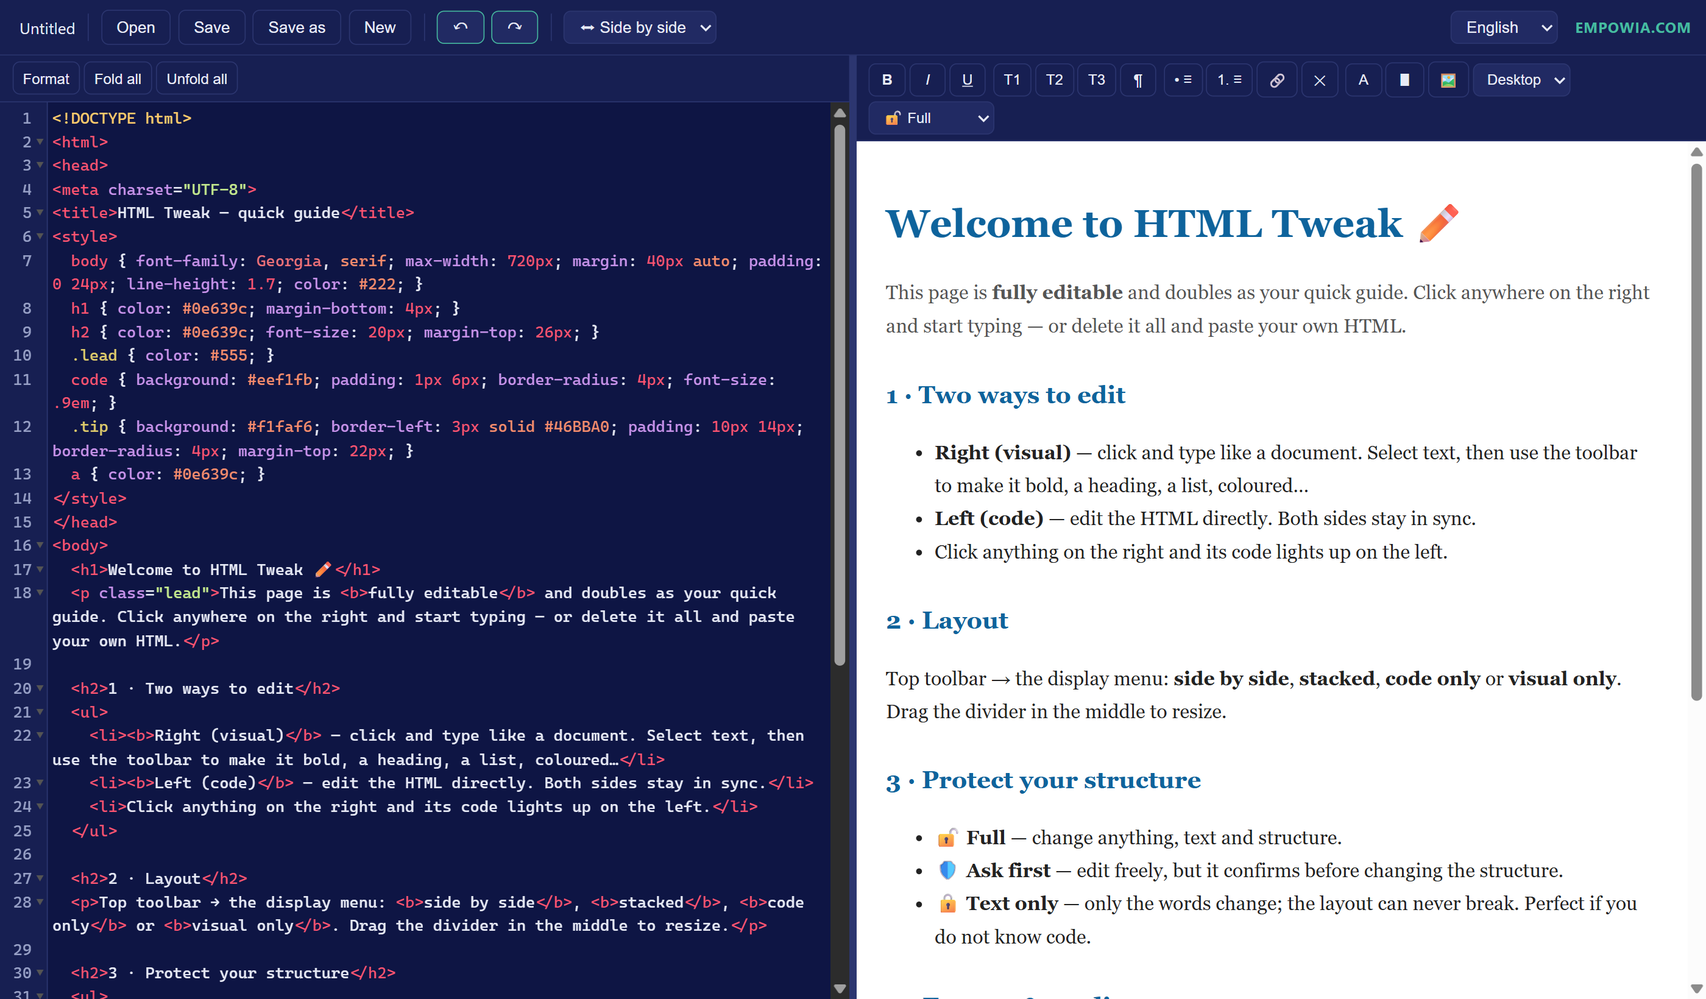
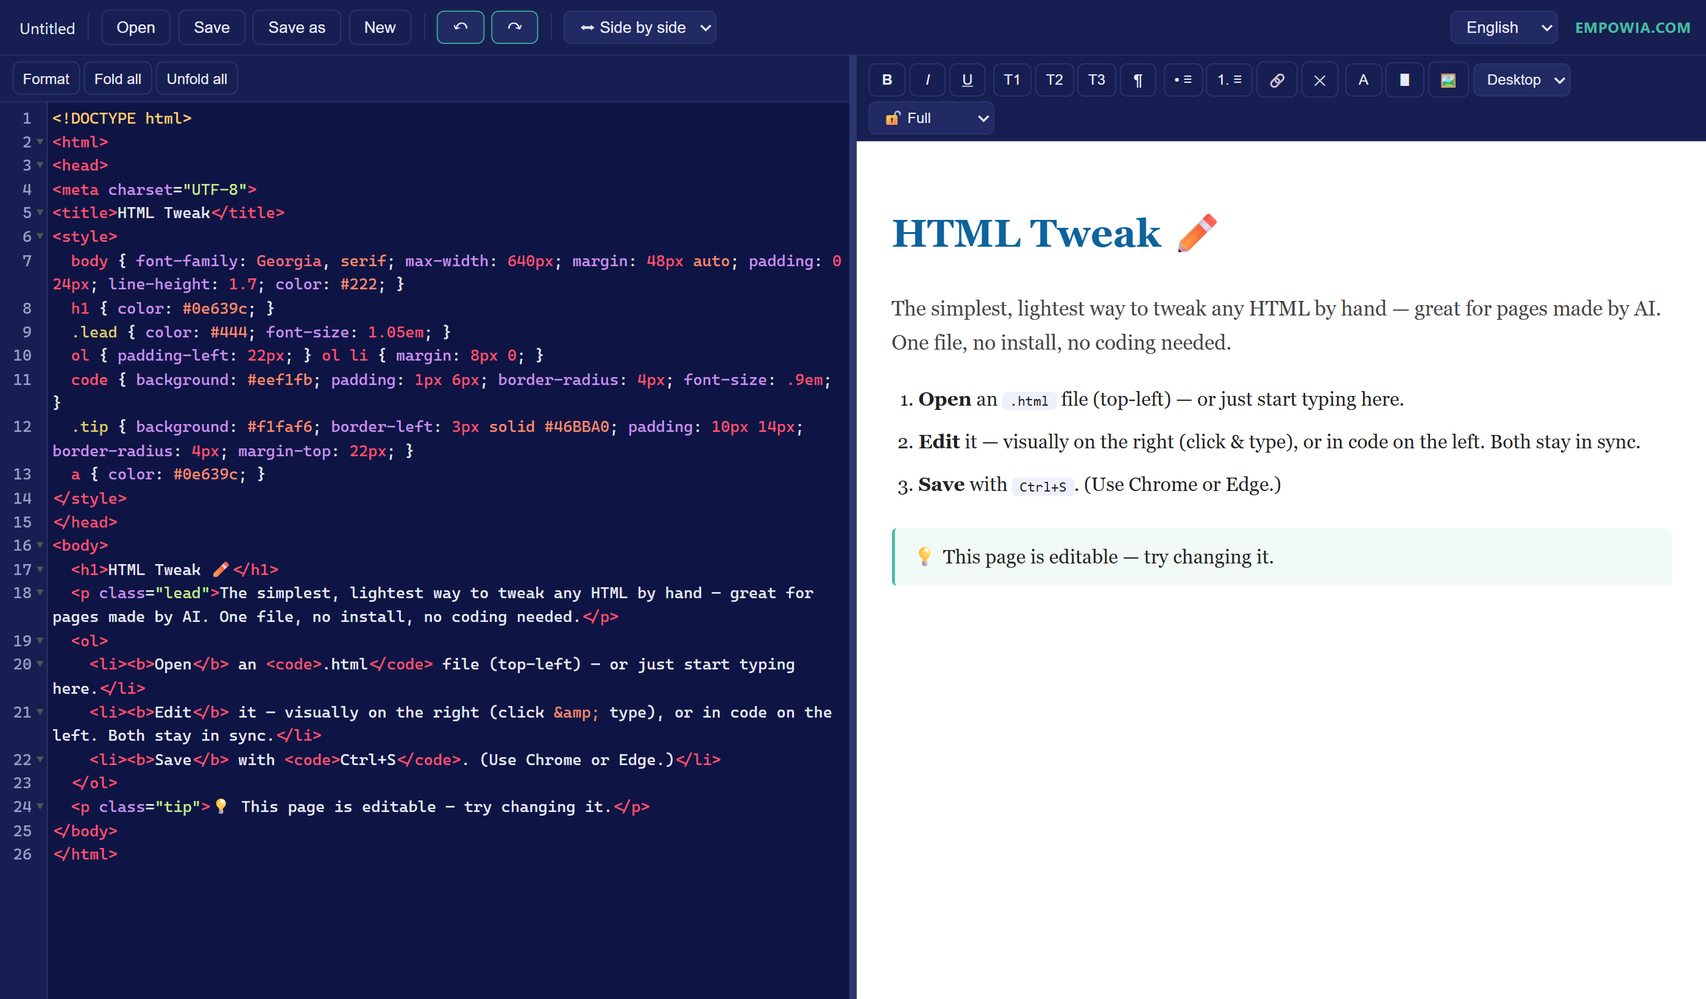
Simplify the in-app guide to a one-line pitch + Open/Edit/Save

diff --git a/index.html b/index.html
@@ -250,7 +250,7 @@
       draft:'Previous draft restored', noFSA:'Use Chrome / Edge for direct file access.', locked:'🔒 Text only — structure is protected', structUndo:'Structure change cancelled', foldNo:'Folding unavailable',
       confirmNew:'Unsaved changes. Create a new page?', confirmStruct:'You are changing the page STRUCTURE\n(adding, removing or moving an element).\n\nContinue?', promptLink:'Link address (URL):',
       apply:'Apply', cancel:'Cancel', imgTitle:'Edit image', imgUrl:'Image URL', imgAlt:'Alt text', imgWidth:'Width (e.g. 300 or 50%)',
-      sample:'<!DOCTYPE html>\n<html>\n<head>\n<meta charset="UTF-8">\n<title>HTML Tweak — quick guide</title>\n<style>\n  body { font-family: Georgia, serif; max-width: 720px; margin: 40px auto; padding: 0 24px; line-height: 1.7; color: #222; }\n  h1 { color: #0e639c; margin-bottom: 4px; }\n  h2 { color: #0e639c; font-size: 20px; margin-top: 26px; }\n  .lead { color: #555; }\n  code { background: #eef1fb; padding: 1px 6px; border-radius: 4px; font-size: .9em; }\n  .tip { background: #f1faf6; border-left: 3px solid #46BBA0; padding: 10px 14px; border-radius: 4px; margin-top: 22px; }\n  a { color: #0e639c; }\n</style>\n</head>\n<body>\n  <h1>Welcome to HTML Tweak ✏</h1>\n  <p class="lead">This page is <b>fully editable</b> and doubles as your quick guide. Click anywhere on the right and start typing — or delete it all and paste your own HTML.</p>\n\n  <h2>1 · Two ways to edit</h2>\n  <ul>\n    <li><b>Right (visual)</b> — click and type like a document. Select text, then use the toolbar to make it bold, a heading, a list, coloured…</li>\n    <li><b>Left (code)</b> — edit the HTML directly. Both sides stay in sync.</li>\n    <li>Click anything on the right and its code lights up on the left.</li>\n  </ul>\n\n  <h2>2 · Layout</h2>\n  <p>Top toolbar → the display menu: <b>side by side</b>, <b>stacked</b>, <b>code only</b> or <b>visual only</b>. Drag the divider in the middle to resize.</p>\n\n  <h2>3 · Protect your structure</h2>\n  <ul>\n    <li>🔓 <b>Full</b> — change anything, text and structure.</li>\n    <li>🛡 <b>Ask first</b> — edit freely, but it confirms before changing the structure.</li>\n    <li>🔒 <b>Text only</b> — only the words change; the layout can never break. Perfect if you do not know code.</li>\n  </ul>\n\n  <h2>4 · Format &amp; media</h2>\n  <p>Select text, then use <b>B</b> / <i>I</i> / <u>U</u>, headings, lists, <a href="https://empowia.com">links</a>, and the <b>A</b> / ▮ colour buttons. Click any image to change its URL, alt text or size.</p>\n\n  <h2>5 · Save</h2>\n  <p><b>Open</b> loads an <code>.html</code> file; <b>Save</b> (<code>Ctrl+S</code>) writes it back. Use <b>Chrome</b> or <b>Edge</b> for direct saving.</p>\n\n  <div class="tip">💡 Change the language at the top-right. Everything you do is auto-saved as a draft. Go ahead — edit this sentence right now!</div>\n</body>\n</html>' },
+      sample:'<!DOCTYPE html>\n<html>\n<head>\n<meta charset="UTF-8">\n<title>HTML Tweak</title>\n<style>\n  body { font-family: Georgia, serif; max-width: 640px; margin: 48px auto; padding: 0 24px; line-height: 1.7; color: #222; }\n  h1 { color: #0e639c; }\n  .lead { color: #444; font-size: 1.05em; }\n  ol { padding-left: 22px; } ol li { margin: 8px 0; }\n  code { background: #eef1fb; padding: 1px 6px; border-radius: 4px; font-size: .9em; }\n  .tip { background: #f1faf6; border-left: 3px solid #46BBA0; padding: 10px 14px; border-radius: 4px; margin-top: 22px; }\n  a { color: #0e639c; }\n</style>\n</head>\n<body>\n  <h1>HTML Tweak ✏</h1>\n  <p class="lead">The simplest, lightest way to tweak any HTML by hand — great for pages made by AI. One file, no install, no coding needed.</p>\n  <ol>\n    <li><b>Open</b> an <code>.html</code> file (top-left) — or just start typing here.</li>\n    <li><b>Edit</b> it — visually on the right (click &amp; type), or in code on the left. Both stay in sync.</li>\n    <li><b>Save</b> with <code>Ctrl+S</code>. (Use Chrome or Edge.)</li>\n  </ol>\n  <p class="tip">💡 This page is editable — try changing it.</p>\n</body>\n</html>' },
     zh: { open:'打开', save:'保存', saveAs:'另存为', new:'新建', undo:'撤销', redo:'重做',
       layoutH:'⬌ 左右', layoutV:'⬍ 上下', layoutCode:'▤ 仅代码', layoutVisual:'▥ 仅可视',
       protFree:'🔓 完全', protText:'🔒 仅文字', protWarn:'🛡 先确认',
@@ -263,7 +263,7 @@
       draft:'已恢复上次草稿', noFSA:'请用 Chrome / Edge 以直接读写本地文件。', locked:'🔒 仅改文字 — 结构受保护', structUndo:'已取消结构修改', foldNo:'无法折叠',
       confirmNew:'有未保存的修改,确定新建?', confirmStruct:'你正在修改页面结构\n(增加、删除或移动元素)。\n\n继续吗?', promptLink:'链接地址(URL):',
       apply:'应用', cancel:'取消', imgTitle:'编辑图片', imgUrl:'图片地址 (URL)', imgAlt:'替代文字 (alt)', imgWidth:'宽度 (如 300 或 50%)',
-      sample:'<!DOCTYPE html>\n<html>\n<head>\n<meta charset="UTF-8">\n<title>HTML Tweak — 快速指南</title>\n<style>\n  body { font-family: Georgia, serif; max-width: 720px; margin: 40px auto; padding: 0 24px; line-height: 1.7; color: #222; }\n  h1 { color: #0e639c; margin-bottom: 4px; }\n  h2 { color: #0e639c; font-size: 20px; margin-top: 26px; }\n  .lead { color: #555; }\n  code { background: #eef1fb; padding: 1px 6px; border-radius: 4px; font-size: .9em; }\n  .tip { background: #f1faf6; border-left: 3px solid #46BBA0; padding: 10px 14px; border-radius: 4px; margin-top: 22px; }\n  a { color: #0e639c; }\n</style>\n</head>\n<body>\n  <h1>欢迎使用 HTML Tweak ✏</h1>\n  <p class="lead">这个页面<b>完全可编辑</b>,同时也是你的快速指南。在右边任意位置点一下就能打字——也可以全部删掉,粘上你自己的 HTML。</p>\n\n  <h2>1 · 两种编辑方式</h2>\n  <ul>\n    <li><b>右边(可视)</b> —— 像编辑文档一样点击、打字。选中文字后,用工具栏加粗、设标题、做列表、上色……</li>\n    <li><b>左边(代码)</b> —— 直接改 HTML,两边实时同步。</li>\n    <li>点右边任意元素,左边对应的代码会高亮。</li>\n  </ul>\n\n  <h2>2 · 显示布局</h2>\n  <p>顶部工具栏 → 显示菜单:<b>左右</b>、<b>上下</b>、<b>仅代码</b>、<b>仅可视</b>。拖动中间的分隔条可调大小。</p>\n\n  <h2>3 · 结构保护</h2>\n  <ul>\n    <li>🔓 <b>完全</b> —— 文字和结构随便改。</li>\n    <li>🛡 <b>先确认</b> —— 自由编辑,但改结构前会弹窗确认。</li>\n    <li>🔒 <b>仅文字</b> —— 只能改文字,排版绝不会被弄坏。不懂代码也能放心用。</li>\n  </ul>\n\n  <h2>4 · 格式与图片</h2>\n  <p>选中文字后用 <b>B</b> / <i>I</i> / <u>U</u>、标题、列表、<a href="https://empowia.com">链接</a>,以及 <b>A</b> / ▮ 颜色按钮。点任意图片可修改它的地址、alt 文字或大小。</p>\n\n  <h2>5 · 保存</h2>\n  <p><b>打开</b>载入一个 <code>.html</code> 文件;<b>保存</b>(<code>Ctrl+S</code>)写回。请用 <b>Chrome</b> 或 <b>Edge</b> 以直接保存。</p>\n\n  <div class="tip">💡 右上角可切换语言。你的所有改动会自动存为草稿。来吧——现在就试着改改这句话!</div>\n</body>\n</html>' },
+      sample:'<!DOCTYPE html>\n<html>\n<head>\n<meta charset="UTF-8">\n<title>HTML Tweak</title>\n<style>\n  body { font-family: Georgia, serif; max-width: 640px; margin: 48px auto; padding: 0 24px; line-height: 1.7; color: #222; }\n  h1 { color: #0e639c; }\n  .lead { color: #444; font-size: 1.05em; }\n  ol { padding-left: 22px; } ol li { margin: 8px 0; }\n  code { background: #eef1fb; padding: 1px 6px; border-radius: 4px; font-size: .9em; }\n  .tip { background: #f1faf6; border-left: 3px solid #46BBA0; padding: 10px 14px; border-radius: 4px; margin-top: 22px; }\n  a { color: #0e639c; }\n</style>\n</head>\n<body>\n  <h1>HTML Tweak ✏</h1>\n  <p class="lead">最简单、最轻量地亲手微调任何 HTML——特别适合 AI 生成的网页。单个文件,免安装,不懂代码也能用。</p>\n  <ol>\n    <li><b>打开</b>一个 <code>.html</code> 文件(左上角)——或直接在这里打字。</li>\n    <li><b>编辑</b>——右边可视化(点击、打字),或左边改代码,两边实时同步。</li>\n    <li><b>保存</b>(<code>Ctrl+S</code>)。请用 Chrome 或 Edge。</li>\n  </ol>\n  <p class="tip">💡 这个页面可以直接编辑——试着改改看。</p>\n</body>\n</html>' },
     fr: { open:'Ouvrir', save:'Enregistrer', saveAs:'Enregistrer sous', new:'Nouveau', undo:'Annuler', redo:'Rétablir',
       layoutH:'⬌ Côte à côte', layoutV:'⬍ Empilé', layoutCode:'▤ Code seul', layoutVisual:'▥ Visuel seul',
       protFree:'🔓 Complet', protText:'🔒 Texte seul', protWarn:'🛡 Demander',
@@ -276,7 +276,7 @@
       draft:'Brouillon précédent restauré', noFSA:'Utilisez Chrome / Edge pour l\'accès direct aux fichiers.', locked:'🔒 Texte seul — la structure est protégée', structUndo:'Modification de structure annulée', foldNo:'Pliage indisponible',
       confirmNew:'Modifications non enregistrées. Créer une nouvelle page ?', confirmStruct:'Vous modifiez la STRUCTURE de la page\n(ajout, suppression ou déplacement d\'un élément).\n\nContinuer ?', promptLink:'Adresse du lien (URL) :',
       apply:'Appliquer', cancel:'Annuler', imgTitle:'Modifier l\'image', imgUrl:'URL de l\'image', imgAlt:'Texte alternatif', imgWidth:'Largeur (ex. 300 ou 50%)',
-      sample:'<!DOCTYPE html>\n<html>\n<head>\n<meta charset="UTF-8">\n<title>HTML Tweak — guide rapide</title>\n<style>\n  body { font-family: Georgia, serif; max-width: 720px; margin: 40px auto; padding: 0 24px; line-height: 1.7; color: #222; }\n  h1 { color: #0e639c; margin-bottom: 4px; }\n  h2 { color: #0e639c; font-size: 20px; margin-top: 26px; }\n  .lead { color: #555; }\n  code { background: #eef1fb; padding: 1px 6px; border-radius: 4px; font-size: .9em; }\n  .tip { background: #f1faf6; border-left: 3px solid #46BBA0; padding: 10px 14px; border-radius: 4px; margin-top: 22px; }\n  a { color: #0e639c; }\n</style>\n</head>\n<body>\n  <h1>Bienvenue dans HTML Tweak ✏</h1>\n  <p class="lead">Cette page est <b>entièrement modifiable</b> et vous sert aussi de guide rapide. Cliquez à droite et tapez — ou effacez tout et collez votre propre HTML.</p>\n\n  <h2>1 · Deux façons de modifier</h2>\n  <ul>\n    <li><b>À droite (visuel)</b> — cliquez et tapez comme dans un document. Sélectionnez du texte, puis mettez-le en gras, en titre, en liste, en couleur…</li>\n    <li><b>À gauche (code)</b> — modifiez le HTML directement. Les deux côtés restent synchronisés.</li>\n    <li>Cliquez à droite : le code correspondant se surligne à gauche.</li>\n  </ul>\n\n  <h2>2 · Affichage</h2>\n  <p>Barre du haut → le menu d’affichage : <b>côte à côte</b>, <b>empilé</b>, <b>code seul</b> ou <b>visuel seul</b>. Glissez le séparateur du milieu pour redimensionner.</p>\n\n  <h2>3 · Protégez la structure</h2>\n  <ul>\n    <li>🔓 <b>Complet</b> — tout modifier, texte et structure.</li>\n    <li>🛡 <b>Demander</b> — édition libre, mais confirmation avant de changer la structure.</li>\n    <li>🔒 <b>Texte seul</b> — seuls les mots changent ; la mise en page ne peut pas casser. Parfait si vous ne connaissez pas le code.</li>\n  </ul>\n\n  <h2>4 · Mise en forme &amp; images</h2>\n  <p>Sélectionnez du texte, puis <b>B</b> / <i>I</i> / <u>U</u>, titres, listes, <a href="https://empowia.com">liens</a> et les boutons de couleur <b>A</b> / ▮. Cliquez une image pour changer son URL, son texte alt ou sa taille.</p>\n\n  <h2>5 · Enregistrer</h2>\n  <p><b>Ouvrir</b> charge un fichier <code>.html</code> ; <b>Enregistrer</b> (<code>Ctrl+S</code>) l’écrit. Utilisez <b>Chrome</b> ou <b>Edge</b> pour enregistrer directement.</p>\n\n  <div class="tip">💡 Changez la langue en haut à droite. Tout est sauvegardé automatiquement en brouillon. Allez-y — modifiez cette phrase maintenant !</div>\n</body>\n</html>' },
+      sample:'<!DOCTYPE html>\n<html>\n<head>\n<meta charset="UTF-8">\n<title>HTML Tweak</title>\n<style>\n  body { font-family: Georgia, serif; max-width: 640px; margin: 48px auto; padding: 0 24px; line-height: 1.7; color: #222; }\n  h1 { color: #0e639c; }\n  .lead { color: #444; font-size: 1.05em; }\n  ol { padding-left: 22px; } ol li { margin: 8px 0; }\n  code { background: #eef1fb; padding: 1px 6px; border-radius: 4px; font-size: .9em; }\n  .tip { background: #f1faf6; border-left: 3px solid #46BBA0; padding: 10px 14px; border-radius: 4px; margin-top: 22px; }\n  a { color: #0e639c; }\n</style>\n</head>\n<body>\n  <h1>HTML Tweak ✏</h1>\n  <p class="lead">La façon la plus simple et légère de retoucher n’importe quel HTML à la main — idéal pour les pages créées par IA. Un seul fichier, sans installation, sans savoir coder.</p>\n  <ol>\n    <li><b>Ouvrir</b> un fichier <code>.html</code> (en haut à gauche) — ou tapez directement ici.</li>\n    <li><b>Modifier</b> — à droite en visuel (cliquer &amp; taper), ou à gauche dans le code. Les deux restent synchronisés.</li>\n    <li><b>Enregistrer</b> avec <code>Ctrl+S</code>. (Chrome ou Edge.)</li>\n  </ol>\n  <p class="tip">💡 Cette page est modifiable — essayez de la changer.</p>\n</body>\n</html>' },
     ja: { open:'開く', save:'保存', saveAs:'名前を付けて保存', new:'新規', undo:'元に戻す', redo:'やり直し',
       layoutH:'⬌ 左右', layoutV:'⬍ 上下', layoutCode:'▤ コードのみ', layoutVisual:'▥ ビジュアルのみ',
       protFree:'🔓 フル', protText:'🔒 文字のみ', protWarn:'🛡 確認',
@@ -289,7 +289,7 @@
       draft:'前回の下書きを復元しました', noFSA:'ファイルへ直接アクセスするには Chrome / Edge を使ってください。', locked:'🔒 文字のみ — 構造は保護されています', structUndo:'構造の変更を取り消しました', foldNo:'折りたたみできません',
       confirmNew:'未保存の変更があります。新規作成しますか？', confirmStruct:'ページの構造を変更しています\n(要素の追加・削除・移動)。\n\n続けますか？', promptLink:'リンク先 (URL):',
       apply:'適用', cancel:'キャンセル', imgTitle:'画像を編集', imgUrl:'画像 URL', imgAlt:'代替テキスト', imgWidth:'幅 (例: 300 または 50%)',
-      sample:'<!DOCTYPE html>\n<html>\n<head>\n<meta charset="UTF-8">\n<title>HTML Tweak — かんたんガイド</title>\n<style>\n  body { font-family: Georgia, serif; max-width: 720px; margin: 40px auto; padding: 0 24px; line-height: 1.7; color: #222; }\n  h1 { color: #0e639c; margin-bottom: 4px; }\n  h2 { color: #0e639c; font-size: 20px; margin-top: 26px; }\n  .lead { color: #555; }\n  code { background: #eef1fb; padding: 1px 6px; border-radius: 4px; font-size: .9em; }\n  .tip { background: #f1faf6; border-left: 3px solid #46BBA0; padding: 10px 14px; border-radius: 4px; margin-top: 22px; }\n  a { color: #0e639c; }\n</style>\n</head>\n<body>\n  <h1>HTML Tweak へようこそ ✏</h1>\n  <p class="lead">このページは<b>すべて編集できます</b>。かんたんなガイドも兼ねています。右側のどこでもクリックして入力できます。全部消して、自分の HTML を貼り付けてもかまいません。</p>\n\n  <h2>1 · 2つの編集方法</h2>\n  <ul>\n    <li><b>右(ビジュアル)</b> — 文書のようにクリックして入力。文字を選んで太字・見出し・リスト・色などに。</li>\n    <li><b>左(コード)</b> — HTML を直接編集。左右は常に同期します。</li>\n    <li>右をクリックすると、対応するコードが左で強調されます。</li>\n  </ul>\n\n  <h2>2 · 表示</h2>\n  <p>上部ツールバー → 表示メニュー:<b>左右</b>・<b>上下</b>・<b>コードのみ</b>・<b>ビジュアルのみ</b>。中央の仕切りをドラッグして大きさを調整。</p>\n\n  <h2>3 · 構造を保護</h2>\n  <ul>\n    <li>🔓 <b>フル</b> — 文字も構造も自由に変更。</li>\n    <li>🛡 <b>確認</b> — 自由に編集。ただし構造を変える前に確認します。</li>\n    <li>🔒 <b>文字のみ</b> — 文字だけ変更でき、レイアウトは壊れません。コードが分からなくても安心。</li>\n  </ul>\n\n  <h2>4 · 書式と画像</h2>\n  <p>文字を選んで <b>B</b> / <i>I</i> / <u>U</u>、見出し、リスト、<a href="https://empowia.com">リンク</a>、<b>A</b> / ▮ の色ボタン。画像をクリックすると URL・代替テキスト・サイズを変更できます。</p>\n\n  <h2>5 · 保存</h2>\n  <p><b>開く</b>で <code>.html</code> を読み込み、<b>保存</b>(<code>Ctrl+S</code>)で書き戻します。直接保存するには <b>Chrome</b> か <b>Edge</b> を使ってください。</p>\n\n  <div class="tip">💡 右上で言語を切り替えられます。編集内容は自動で下書き保存されます。さあ、この文をいま編集してみましょう!</div>\n</body>\n</html>' },
+      sample:'<!DOCTYPE html>\n<html>\n<head>\n<meta charset="UTF-8">\n<title>HTML Tweak</title>\n<style>\n  body { font-family: Georgia, serif; max-width: 640px; margin: 48px auto; padding: 0 24px; line-height: 1.7; color: #222; }\n  h1 { color: #0e639c; }\n  .lead { color: #444; font-size: 1.05em; }\n  ol { padding-left: 22px; } ol li { margin: 8px 0; }\n  code { background: #eef1fb; padding: 1px 6px; border-radius: 4px; font-size: .9em; }\n  .tip { background: #f1faf6; border-left: 3px solid #46BBA0; padding: 10px 14px; border-radius: 4px; margin-top: 22px; }\n  a { color: #0e639c; }\n</style>\n</head>\n<body>\n  <h1>HTML Tweak ✏</h1>\n  <p class="lead">どんな HTML も手ですばやく微調整できる、いちばん簡単で軽いエディター。AI が作ったページに最適。1ファイル、インストール不要、コード不要。</p>\n  <ol>\n    <li><b>開く</b> — <code>.html</code> ファイルを開く(左上)。ここに直接入力してもOK。</li>\n    <li><b>編集</b> — 右でビジュアル(クリックして入力)、または左でコード。左右は常に同期。</li>\n    <li><b>保存</b> — <code>Ctrl+S</code>。（Chrome か Edge を使用。）</li>\n  </ol>\n  <p class="tip">💡 このページは編集できます。試しに変えてみてください。</p>\n</body>\n</html>' },
     de: { open:'Öffnen', save:'Speichern', saveAs:'Speichern unter', new:'Neu', undo:'Rückgängig', redo:'Wiederholen',
       layoutH:'⬌ Nebeneinander', layoutV:'⬍ Übereinander', layoutCode:'▤ Nur Code', layoutVisual:'▥ Nur visuell',
       protFree:'🔓 Voll', protText:'🔒 Nur Text', protWarn:'🛡 Nachfragen',
@@ -302,7 +302,7 @@
       draft:'Vorheriger Entwurf wiederhergestellt', noFSA:'Chrome / Edge für direkten Dateizugriff verwenden.', locked:'🔒 Nur Text — die Struktur ist geschützt', structUndo:'Strukturänderung abgebrochen', foldNo:'Einklappen nicht verfügbar',
       confirmNew:'Nicht gespeicherte Änderungen. Neue Seite erstellen?', confirmStruct:'Sie ändern die STRUKTUR der Seite\n(Element hinzufügen, entfernen oder verschieben).\n\nFortfahren?', promptLink:'Link-Adresse (URL):',
       apply:'Übernehmen', cancel:'Abbrechen', imgTitle:'Bild bearbeiten', imgUrl:'Bild-URL', imgAlt:'Alt-Text', imgWidth:'Breite (z. B. 300 oder 50%)',
-      sample:'<!DOCTYPE html>\n<html>\n<head>\n<meta charset="UTF-8">\n<title>HTML Tweak — Kurzanleitung</title>\n<style>\n  body { font-family: Georgia, serif; max-width: 720px; margin: 40px auto; padding: 0 24px; line-height: 1.7; color: #222; }\n  h1 { color: #0e639c; margin-bottom: 4px; }\n  h2 { color: #0e639c; font-size: 20px; margin-top: 26px; }\n  .lead { color: #555; }\n  code { background: #eef1fb; padding: 1px 6px; border-radius: 4px; font-size: .9em; }\n  .tip { background: #f1faf6; border-left: 3px solid #46BBA0; padding: 10px 14px; border-radius: 4px; margin-top: 22px; }\n  a { color: #0e639c; }\n</style>\n</head>\n<body>\n  <h1>Willkommen bei HTML Tweak ✏</h1>\n  <p class="lead">Diese Seite ist <b>vollständig bearbeitbar</b> und dient zugleich als Kurzanleitung. Klicken Sie rechts und tippen Sie los — oder löschen Sie alles und fügen Sie Ihr eigenes HTML ein.</p>\n\n  <h2>1 · Zwei Wege zu bearbeiten</h2>\n  <ul>\n    <li><b>Rechts (visuell)</b> — klicken und tippen wie in einem Dokument. Text markieren und fett, als Überschrift, Liste oder farbig formatieren…</li>\n    <li><b>Links (Code)</b> — das HTML direkt bearbeiten. Beide Seiten bleiben synchron.</li>\n    <li>Rechts klicken — der passende Code wird links markiert.</li>\n  </ul>\n\n  <h2>2 · Ansicht</h2>\n  <p>Obere Leiste → Ansichtsmenü: <b>nebeneinander</b>, <b>übereinander</b>, <b>nur Code</b> oder <b>nur visuell</b>. Ziehen Sie den Trenner in der Mitte zum Anpassen.</p>\n\n  <h2>3 · Struktur schützen</h2>\n  <ul>\n    <li>🔓 <b>Voll</b> — alles ändern, Text und Struktur.</li>\n    <li>🛡 <b>Nachfragen</b> — frei bearbeiten, aber vor Strukturänderungen wird nachgefragt.</li>\n    <li>🔒 <b>Nur Text</b> — nur die Wörter ändern sich; das Layout kann nicht kaputtgehen. Ideal ohne Code-Kenntnisse.</li>\n  </ul>\n\n  <h2>4 · Formatierung &amp; Medien</h2>\n  <p>Text markieren, dann <b>B</b> / <i>I</i> / <u>U</u>, Überschriften, Listen, <a href="https://empowia.com">Links</a> und die Farbknöpfe <b>A</b> / ▮. Auf ein Bild klicken, um URL, Alt-Text oder Größe zu ändern.</p>\n\n  <h2>5 · Speichern</h2>\n  <p><b>Öffnen</b> lädt eine <code>.html</code>-Datei; <b>Speichern</b> (<code>Ctrl+S</code>) schreibt sie zurück. Für direktes Speichern <b>Chrome</b> oder <b>Edge</b> verwenden.</p>\n\n  <div class="tip">💡 Sprache oben rechts umschalten. Alles wird automatisch als Entwurf gespeichert. Los — bearbeiten Sie diesen Satz jetzt!</div>\n</body>\n</html>' }
+      sample:'<!DOCTYPE html>\n<html>\n<head>\n<meta charset="UTF-8">\n<title>HTML Tweak</title>\n<style>\n  body { font-family: Georgia, serif; max-width: 640px; margin: 48px auto; padding: 0 24px; line-height: 1.7; color: #222; }\n  h1 { color: #0e639c; }\n  .lead { color: #444; font-size: 1.05em; }\n  ol { padding-left: 22px; } ol li { margin: 8px 0; }\n  code { background: #eef1fb; padding: 1px 6px; border-radius: 4px; font-size: .9em; }\n  .tip { background: #f1faf6; border-left: 3px solid #46BBA0; padding: 10px 14px; border-radius: 4px; margin-top: 22px; }\n  a { color: #0e639c; }\n</style>\n</head>\n<body>\n  <h1>HTML Tweak ✏</h1>\n  <p class="lead">Der einfachste, leichteste Weg, beliebiges HTML von Hand anzupassen — ideal für Seiten von KI. Eine Datei, ohne Installation, ohne Programmierkenntnisse.</p>\n  <ol>\n    <li><b>Öffnen</b> — eine <code>.html</code>-Datei (oben links). Oder direkt hier tippen.</li>\n    <li><b>Bearbeiten</b> — rechts visuell (klicken &amp; tippen) oder links im Code. Beide bleiben synchron.</li>\n    <li><b>Speichern</b> mit <code>Ctrl+S</code>. (Chrome oder Edge.)</li>\n  </ol>\n  <p class="tip">💡 Diese Seite ist bearbeitbar — probieren Sie es aus.</p>\n</body>\n</html>' }
   };
   let lang = 'en';
   try { const l = localStorage.getItem('htmlstudio_lang'); if (l && I18N[l]) lang = l; } catch(e){}
